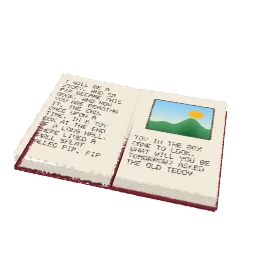
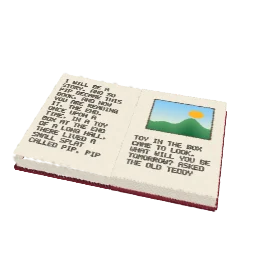
Phase Sharpness A, the storybook: ink-dot words; its turned pages sorted where they lie, a solid cover rim, soft gray mid-turn words
Round 1: the words on the two open pages are ink dots on the font's
pixels. Round 2: splats sort in the closed pose they were built in, so the
turned last leaf's paper drew over its words and the cover's inside showed
as a red frame; drive() now asks for out.resortPose. A denser cover rim so
the page edges no longer bleed through it. Tests in tests/sha-book.spec.mjs.

Claude-Session: https://claude.ai/code/session_01CMEiA83jgvR9PZBSNEZAoy

diff --git a/src/packs/objects.js b/src/packs/objects.js
@@ -745,8 +745,21 @@ export const RECIPES = {
     options: [{ key: "color", label: "Cover", type: "color", default: "#7a2432" }],
     controls: [{ key: "open", label: "Open", type: "toggle", default: 1, ease: 2 }],
     action: { key: "open", label: "Open or close" },
-    drive(t, c, out) {
+    drive(t, c, out, info) {
       const o = c.open;
+      // Splats sort in the pose they were built in (the book closed), so a
+      // turned leaf would draw its paper over its words, and the turned
+      // cover and leaves over the pages they lie on. They are sorted where
+      // they stand on the first frame and every hundredth of a turn, and
+      // again on the frame after (the sort uses the pose the frame starts
+      // with) (lane Sharpness A).
+      const d = info?.data;
+      const slot = Math.round(o * 100);
+      if (d && (slot !== d.sortSlot || d.sortAgain)) {
+        d.sortAgain = slot !== d.sortSlot;
+        d.sortSlot = slot;
+        out.resortPose = true;
+      }
       const lift = [0, 0, 0, 0, 0, 0, 0, 0.012, 0.03, 0.06];
       const cover = Math.PI * ease3(window01(o, 0, 0.42));
       out.parts.cover = { angle: cover };
@@ -773,6 +786,7 @@ export const RECIPES = {
     },
     build(k, o) {
       const { W, H, ct, leaves, lt, T } = BOOK;
+      k.data = {}; // drive() keeps its sort state here
       const cover = o.color;
       const gold = "#d9b45a";
       const paper = "#f6efdf";
@@ -813,7 +827,7 @@ export const RECIPES = {
         return inked(page.lines, s, t);
       };
       const ink = "#2f2a26";
-      const pageCol = (c, x, z, seed, picture = false, flipped = false) => {
+      const pageCol = (c, x, z, seed, picture = false, flipped = false, dots = false) => {
         if (
           picture &&
           Math.abs(x) > 0.18 &&
@@ -831,7 +845,9 @@ export const RECIPES = {
           const edge = Math.min(u, 1 - u, v, 1 - v);
           return keep(edge < 0.02 ? "#5b4a3a" : col);
         }
-        if (text(x, z, seed, flipped, picture)) return keep(ink, 0.8);
+        // Pages seen only mid-turn have few, large splats: their words are a
+        // soft gray, so they read as lines of print rather than black blots.
+        if (!dots && text(x, z, seed, flipped, picture)) return keep(mix(ink, paper, 0.45), 0.8);
         // A turned page is lit as it lies once turned over.
         const n = flipped ? [-c.n[0], -c.n[1], c.n[2]] : c.n;
         return lit(shade(paper, 0.985 + 0.015 * c.noise(x * 12, z * 12, seed)), n, {
@@ -844,7 +860,7 @@ export const RECIPES = {
       k.add(roundBox(W, ct, H, 0.012), {
         pos: [W / 2, ct / 2, 0],
         flat: 0.15,
-        weight: 1.6,
+        weight: 2.4,
         even: true,
         jitter: 0.01,
         size: 0.8,
@@ -878,7 +894,7 @@ export const RECIPES = {
         pos: [W / 2, T - ct / 2, 0],
         part: coverPart,
         flat: 0.15,
-        weight: 1.6,
+        weight: 4,
         even: true,
         jitter: 0.01,
         size: 0.8,
@@ -929,10 +945,10 @@ export const RECIPES = {
       k.add(evenBox(PW, block, PH), {
         pos: [PW / 2 + 0.005, ct + block / 2, 0],
         flat: 0.15,
-        weight: 1.8,
+        weight: 2.4,
         even: true,
         jitter: 0,
-        size: 1.1,
+        size: 1,
         color: (c) => {
           if (c.s.face === 2 || c.s.face === 3) return null;
           if (c.s.face === 1) return shade(paper, 0.8);
@@ -946,8 +962,43 @@ export const RECIPES = {
         even: true,
         jitter: 0.01,
         size: 1.25,
-        color: (c) => pageCol(c, c.p[0], c.p[2], 3, true),
+        color: (c) => pageCol(c, c.p[0], c.p[2], 3, true, false, true),
       });
+      // The words on the two pages seen while the book lies open (lane
+      // Sharpness A): every font pixel is a 2 x 2 grid of small ink dots
+      // laid exactly on it, just off the paper, like the laptop's keys
+      // (random splats on the page blurred the letters).
+      const inkDots = (seed, picture, flipped, y, part) => {
+        const page = pageText(seed, picture);
+        const dots = [];
+        page.lines.forEach((line, r) => {
+          for (let s0 = 0; s0 < 6 * line.length; s0++)
+            for (let gy = 0; gy < 7; gy++) {
+              const t0 = r * 10 + gy;
+              if (!inked(page.lines, s0 + 0.5, t0 + 0.5)) continue;
+              for (let a2 = 0; a2 < 2; a2++)
+                for (let b2 = 0; b2 < 2; b2++) {
+                  const sp = (s0 + (a2 + 0.5) / 2) * PX;
+                  const ax = flipped ? W - margin - sp : margin + sp;
+                  const z = (t0 + page.skip * 10 + (b2 + 0.5) / 2) * PX - H / 2 + 0.12;
+                  dots.push([ax, y, z]);
+                }
+            }
+        });
+        const r = PX * 0.6;
+        k.cloud({ count: dots.length, pattern: false, part }, (rand, j, n) => {
+          const d = dots[Math.floor((j * dots.length) / n)];
+          const m = Math.sqrt(Math.max(1, dots.length / n));
+          return {
+            p: d,
+            scales: [r * m, r * 0.15, r * m],
+            quat: [0, 0, 0, 1],
+            color: ink,
+            opacity: 1,
+          };
+        });
+      };
+      inkDots(3, true, false, ct + block + 0.0012, undefined);
       // Leaves that flip one after another.
       for (let i = 0; i < leaves; i++) {
         const part = k.part("leaf" + i, { pivot, axis: [0, 0, 1] });
@@ -977,8 +1028,10 @@ export const RECIPES = {
             even: true,
             jitter: 0.01,
             size: 1.25,
-            color: (c) => pageCol(c, c.p[0], c.p[2], i * 2 + (up < 0 ? 1 : 0), false, up < 0),
+            color: (c) =>
+              pageCol(c, c.p[0], c.p[2], i * 2 + (up < 0 ? 1 : 0), false, up < 0, shown),
           });
+          if (shown) inkDots(i * 2 + 1, false, true, y + up * lt * 0.4 - 0.0012, part);
         }
       }
       // The left pile's edges, shown once the leaves under the top one hide.

diff --git a/docs/handoff/SharpA.md b/docs/handoff/SharpA.md
@@ -168,4 +168,43 @@ Model: Opus 5.5 (claude-opus-5-5), default effort.
   faces, random clouds).
 - If a toy is better merged sooner, the landmarks are self-contained in landmarks.js and could be a
   PR of their own.
-- **The storybook** is in its own PR (`claude/lane-sharp-a-book`); its notes are there.
+- **The storybook** is in its own PR (`claude/lane-sharp-a-book`); see "The storybook" below.
+
+## The storybook (its own PR)
+
+PR "Phase Sharpness A: the storybook", branch `claude/lane-sharp-a-book`, made from #172's head once
+the book had left it (stacked: until #172 merges, its diff shows #172's changes too). Tests in
+`tests/sha-book.spec.mjs`.
+
+- Round 1 (October 2, 2026): the words on the two open pages are ink dots laid exactly on the font's
+  pixels (2 × 2 per pixel, like the laptop's keys) instead of random page splats colored as ink.
+- Round 2 (October 3, 2026; cards `sha-book-r2` and `sha-book-tap-r2`, the old ones `replacedBy`),
+  for the owner's "fix" mark on round 1 (the page blended into the book, inside and from outside
+  when closed):
+  - The cause: splats sort in the pose they were built in (the book closed). The turned last leaf
+    kept that order, so its paper drew over its own words (gray, washed out), and the cover's inside
+    drew a dark red frame over the left page (on main too). `drive()` now asks for `out.resortPose`
+    on the first frame and every hundredth of a turn, and on the frame after (the sort uses the pose
+    the frame starts with). The build sets `k.data` for that state.
+  - Closed: the cover's rim is denser (weight 4, the back cover 2.4), so the page edges no longer
+    bleed white through it; the page block's edge splats are a little smaller (size 1, weight 2.4).
+  - The pages seen only mid-turn print their words in a soft gray (they have few, large splats;
+    black read as blots).
+- Which way and why: the blending had a clear cause with a small fix in the recipe, so round 2 fixes
+  the book as it is rather than rebuilding it on the Your book (PDF) toy. That rebuild (an original
+  storybook PDF with pictures, more pages, pages that flip) stays the fallback if the owner still
+  finds it blends; it would be a new asset and a new way the toy works.
+
+### Known issues (the storybook)
+
+- Closing: for about a tenth of a second as the cover lands (about 15 to 25 degrees open), the page
+  corner draws over the cover's lower corner. Held still at those angles it shows too, so it is the
+  sort itself, not a lag: sorted where they stand, the leaves and the right page sort in front of
+  the cover's corner there, while the closed book's order draws it right. Stopping the sorts below a
+  quarter turn, or below 30 degrees, made it last longer (the order from the last sort is worse), so
+  the book sorts all the way down. A fix needs the engine's pose sort (`posePass` in src/pose.js, or
+  how the container sorts near-touching layers): an Engine PR.
+- A toy has at most 15 parts and the storybook uses all 15, so the right page's words cannot be a
+  part that hides while the leaves close over them (a few dark specks show through the closing
+  leaves for a moment).
+- The leaves seen only mid-turn keep their words as page splats (a soft gray).

diff --git a/docs/TOY-PLAN.md b/docs/TOY-PLAN.md
@@ -45,9 +45,9 @@ Proposals below are suggestions; the owner may change them.
   Taco, Coffee, Apple, Bananas, Orange, Kiwi, Pineapple, Cherries, Grapes, Avocado, Building bricks,
   Rubber duck, Newton's cradle, Puzzle cube, Kite, Chess set, Lorenz attractor, Möbius strip, Klein
   bottle, Menger sponge, Hypercube, Torus knot, Gyroid, Mandelbulb, Seashell spiral, Graph plotter,
-  Surface plotter, Circle and waves, Fourier circles, Pythagoras proof, Splat equation, Fountain
-  pen, Water bottle, Soda can, Running shoe, Hoodie, Sunglasses, Baseball cap, Heraldic shield,
-  Crown, Wizard's orb, Crystal ball, Jellyfish, School of fish, Pufferfish, Nautilus, Snail,
+  Surface plotter, Circle and waves, Fourier circles, Pythagoras proof, Splat equation, Storybook,
+  Fountain pen, Water bottle, Soda can, Running shoe, Hoodie, Sunglasses, Baseball cap, Heraldic
+  shield, Crown, Wizard's orb, Crystal ball, Jellyfish, School of fish, Pufferfish, Nautilus, Snail,
   Octopus, Sea urchin, Frog, Snowman, Fireworks, Decorated tree, Diya, Acoustic guitar, Snare drum,
   Xylophone, Toy piano, Grand piano, Upright piano, Harpsichord, Electronic keyboard, Hot-air
   balloon, Bus, Jet airliner, Sailboat, Submarine, Bicycle, Eiffel Tower, Washington Monument,
@@ -649,6 +649,10 @@ Proposals below are suggestions; the owner may change them.
     a crisper cover, and no red strip (the cover's inside drew over the pages). E1b: the outside is
     crisp: evenly spread, denser splats on the cover, spine and page edges, a fine woven cloth and
     page lines splats can show.
+  - Improved: Sharpness A (October 2, 2026): the words on the two open pages are ink dots laid on
+    the font's pixels. Round 2 (October 3, 2026): the turned leaves are sorted where they lie, so
+    the left page's paper no longer covers its words and the cover's inside no longer shows through;
+    a solid cover rim, cleaner page edges, and soft gray words on the pages seen only mid-turn.
   - Sound: Real paper pages turning (no wind); real CC0 recordings now (book-page.mp3), with the
     synthesized sound as a fallback.
 - **Laptop** (`laptop`). Now: tap: Open or close. Plan: keep.
